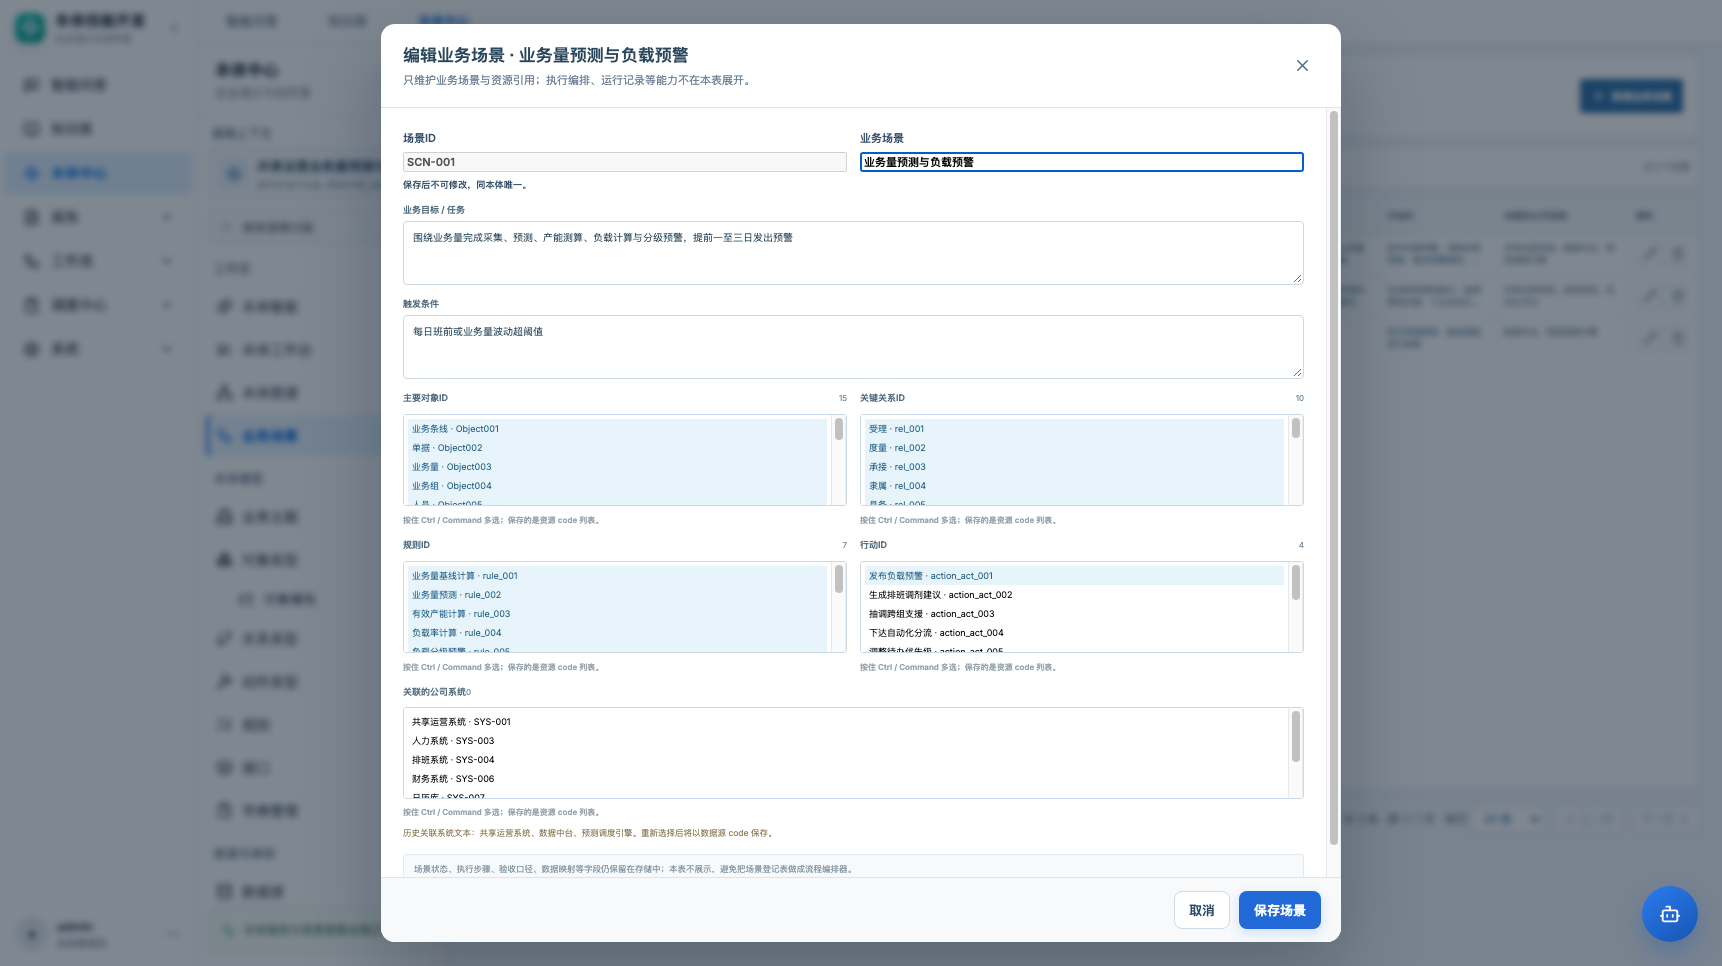
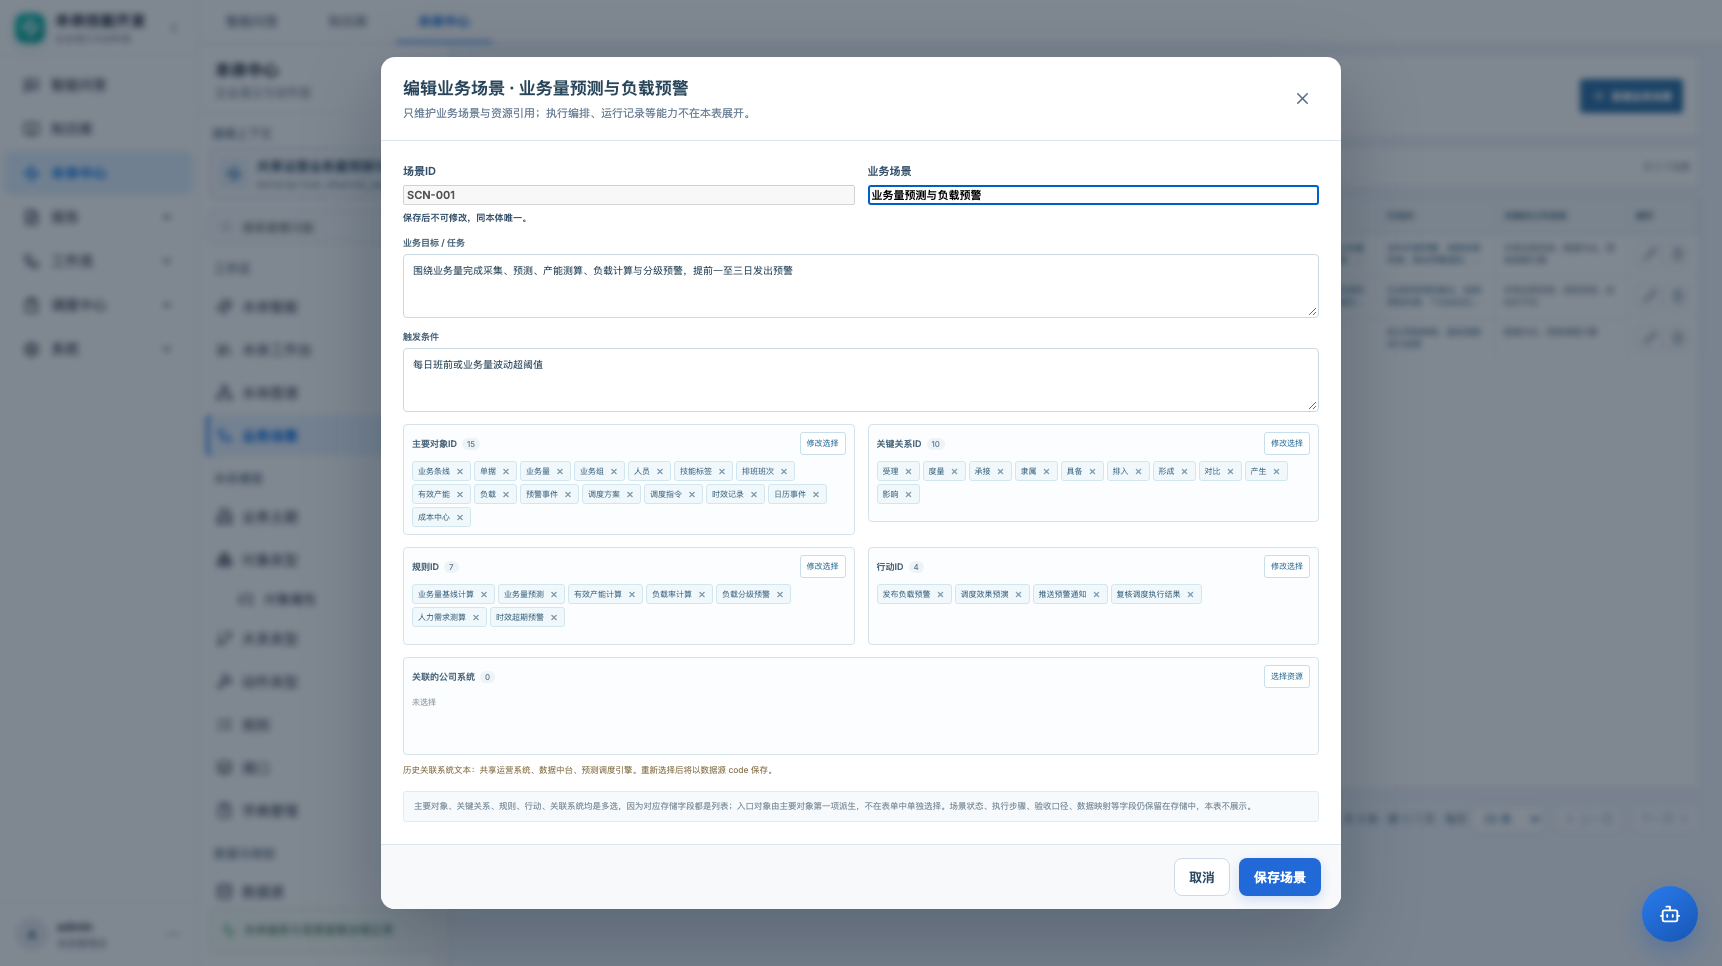
feat: use searchable resource pickers in scenario editor

diff --git a/frontend/src/pages/ScenarioStudio.jsx b/frontend/src/pages/ScenarioStudio.jsx
@@ -10,7 +10,6 @@ const emptyForm = () => ({
   related_objects: [], related_links: [], related_rules: [], related_actions: [], source_codes: [],
 });
 const statusLabel = { active: '已发布', draft: '设计中', experimental: '试验中', proposal: '建议中', deprecated: '已废弃' };
-const selectedValues = (event) => [...event.target.selectedOptions].map((option) => option.value);
 
 function ResourceCell({ codes, items, codeKey = 'name' }) {
   const values = (codes || []).map((code) => {
@@ -21,8 +20,35 @@ function ResourceCell({ codes, items, codeKey = 'name' }) {
   return <span className="scenario-table-ids" title={values.join('、')}>{values.join('、')}</span>;
 }
 
-function MultiSelect({ label, items, value, onChange, codeKey = 'name', labelKey = 'display_name' }) {
-  return <label className="scenario-simple-field"><span>{label}<em>{value.length}</em></span><select multiple value={value} onChange={(event) => onChange(selectedValues(event))} className="scenario-simple-multi">{items.map((item) => <option key={item.id || item[codeKey]} value={item[codeKey]}>{(item[labelKey] || item.name || item[codeKey])} · {item[codeKey]}</option>)}</select><small>按住 Ctrl / Command 多选；保存的是资源 code 列表。</small></label>;
+function ResourcePicker({ label, items, value, onChange, codeKey = 'name', labelKey = 'display_name', detail, multiple = true }) {
+  const [open, setOpen] = useState(false);
+  const [search, setSearch] = useState('');
+  const [draft, setDraft] = useState(value || []);
+  useEffect(() => { if (open) { setDraft(value || []); setSearch(''); } }, [open, value]);
+  const selected = value || [];
+  const selectedItems = selected.map((code) => items.find((item) => item[codeKey] === code)).filter(Boolean);
+  const needle = search.trim().toLowerCase();
+  const filtered = items.filter((item) => {
+    const text = `${item[labelKey] || ''} ${item[codeKey] || ''} ${detail ? detail(item) : ''}`.toLowerCase();
+    return !needle || text.includes(needle);
+  });
+  const toggle = (code) => setDraft((current) => multiple ? (current.includes(code) ? current.filter((item) => item !== code) : [...current, code]) : [code]);
+  const apply = () => { onChange(draft); setOpen(false); };
+  return <>
+    <div className="scenario-picker-field">
+      <div className="scenario-picker-head"><span>{label}<em>{selected.length}</em></span><button type="button" onClick={() => setOpen(true)}>{selected.length ? '修改选择' : '选择资源'}</button></div>
+      {selectedItems.length ? <div className="scenario-picker-chips">{selectedItems.map((item) => <span key={item.id || item[codeKey]} title={item[codeKey]}>{item[labelKey] || item[codeKey]}<button type="button" aria-label={`移除 ${item[labelKey] || item[codeKey]}`} onClick={() => onChange(selected.filter((code) => code !== item[codeKey]))}>×</button></span>)}</div> : <p className="scenario-picker-empty">未选择</p>}
+    </div>
+    {open && <Modal wide title={`选择${label}`} subtitle={multiple ? '可多选；确认后写入当前场景草稿。' : '单选；确认后写入当前场景草稿。'} onClose={() => setOpen(false)} footer={<><span className="scenario-picker-foot-count">已选 {draft.length} 项</span><button type="button" className="btn secondary" onClick={() => setDraft([])}>清空</button><button type="button" className="btn secondary" onClick={() => setOpen(false)}>取消</button><button type="button" className="btn primary" onClick={apply}>应用选择</button></>}>
+      <div className="scenario-picker-modal-body">
+        <label className="scenario-picker-search"><Search size={15} /><input autoFocus value={search} onChange={(event) => setSearch(event.target.value)} placeholder={`搜索${label}`} /></label>
+        <div className="scenario-picker-options">{filtered.map((item) => {
+          const code = item[codeKey];
+          return <label key={item.id || code} className={draft.includes(code) ? 'selected' : ''}><input type={multiple ? 'checkbox' : 'radio'} checked={draft.includes(code)} onChange={() => toggle(code)} /><span><b>{item[labelKey] || code}</b><code>{code}</code>{detail && detail(item) && <small>{detail(item)}</small>}</span></label>;
+        })}{!filtered.length && <div className="scenario-picker-no-result">没有匹配的资源</div>}</div>
+      </div>
+    </Modal>}
+  </>;
 }
 
 export default function ScenarioStudio({ activeId, notify }) {
@@ -184,10 +210,10 @@ export default function ScenarioStudio({ activeId, notify }) {
         <div className="form-grid two"><label><span>场景ID</span><input required disabled={!editing.create} value={form.code} onChange={(event) => setForm({ ...form, code: event.target.value })} placeholder="SCN-001" /><small>保存后不可修改，同本体唯一。</small></label><label><span>业务场景</span><input required value={form.name} onChange={(event) => setForm({ ...form, name: event.target.value })} /></label></div>
         <label><span>业务目标 / 任务</span><textarea required value={form.business_goal} onChange={(event) => setForm({ ...form, business_goal: event.target.value })} placeholder="用一句话说明场景要完成的业务任务" /></label>
         <label><span>触发条件</span><textarea required value={form.trigger_condition} onChange={(event) => setForm({ ...form, trigger_condition: event.target.value })} placeholder="什么事件、时间或数据变化触发这个场景" /></label>
-        <div className="form-grid two"><MultiSelect label="主要对象ID" items={objects} value={form.related_objects} onChange={(value) => setForm({ ...form, related_objects: value })} /><MultiSelect label="关键关系ID" items={links} value={form.related_links} onChange={(value) => setForm({ ...form, related_links: value })} /></div>
-        <div className="form-grid two"><MultiSelect label="规则ID" items={rules} value={form.related_rules} onChange={(value) => setForm({ ...form, related_rules: value })} /><MultiSelect label="行动ID" items={actions} value={form.related_actions} onChange={(value) => setForm({ ...form, related_actions: value })} /></div>
-        <MultiSelect label="关联的公司系统" items={sources} value={form.source_codes} onChange={(value) => setForm({ ...form, source_codes: value })} codeKey="code" labelKey="name" />{!form.source_codes.length && editing?.item?.connected_systems && <p className="scenario-simple-legacy">历史关联系统文本：{editing.item.connected_systems}。重新选择后将以数据源 code 保存。</p>}
-        <p className="scenario-simple-note">场景状态、执行步骤、验收口径、数据映射等字段仍保留在存储中；本表不展示，避免把场景登记表做成流程编排器。</p>
+        <div className="form-grid two"><ResourcePicker label="主要对象ID" items={objects} value={form.related_objects} onChange={(value) => setForm({ ...form, related_objects: value })} /><ResourcePicker label="关键关系ID" items={links} value={form.related_links} onChange={(value) => setForm({ ...form, related_links: value })} detail={(item) => [item.source_display_name, item.target_display_name].filter(Boolean).join(" -> ")} /></div>
+        <div className="form-grid two"><ResourcePicker label="规则ID" items={rules} value={form.related_rules} onChange={(value) => setForm({ ...form, related_rules: value })} detail={(item) => item.description || ""} /><ResourcePicker label="行动ID" items={actions} value={form.related_actions} onChange={(value) => setForm({ ...form, related_actions: value })} detail={(item) => item.description || ""} /></div>
+        <ResourcePicker label="关联的公司系统" items={sources} value={form.source_codes} onChange={(value) => setForm({ ...form, source_codes: value })} codeKey="code" labelKey="name" detail={(item) => item.physical_object || item.category || ""} />{!form.source_codes.length && editing?.item?.connected_systems && <p className="scenario-simple-legacy">历史关联系统文本：{editing.item.connected_systems}。重新选择后将以数据源 code 保存。</p>}
+        <p className="scenario-simple-note">主要对象、关键关系、规则、行动、关联系统均是多选，因为对应存储字段都是列表；入口对象由主要对象第一项派生，不在表单中单独选择。场景状态、执行步骤、验收口径、数据映射等字段仍保留在存储中，本表不展示。</p>
       </form>
     </Modal>}
   </div>;

diff --git a/frontend/src/styles.css b/frontend/src/styles.css
@@ -4017,3 +4017,34 @@ html, body, #root {
 .scenario-simple-multi option:checked { color:#1f5e85; background:#e7f4fb; }
 
 .scenario-simple-legacy { margin:-3px 0 0; color:#8d7a54; font-size:8.5px; line-height:1.5; }
+
+/* 业务场景：资源选择弹窗 */
+.scenario-picker-field { min-width:0; min-height:98px; padding:7px 8px; background:#fbfdfe; border:1px solid #d5e2ea; border-radius:4px; }
+.scenario-picker-head { display:flex; align-items:center; justify-content:space-between; gap:6px; }
+.scenario-picker-head > span { display:inline-flex; align-items:center; gap:5px; color:#4e697d; font-size:9px; font-weight:600; }
+.scenario-picker-head > span em { padding:1px 5px; color:#6e8798; background:#edf3f7; border-radius:7px; font-size:8px; font-style:normal; font-weight:400; }
+.scenario-picker-head > button { min-height:23px; padding:0 6px; color:#2c6f98; background:#fff; border:1px solid #c7dfed; border-radius:3px; font-size:8px; cursor:pointer; }
+.scenario-picker-head > button:hover { background:#f2faff; }
+.scenario-picker-chips { display:flex; flex-wrap:wrap; gap:3px; max-height:76px; overflow:auto; margin-top:6px; }
+.scenario-picker-chips > span { display:inline-flex; align-items:center; gap:3px; max-width:100%; padding:2px 3px 2px 5px; color:#3f6781; background:#f0f8fc; border:1px solid #d2e6f0; border-radius:3px; font-size:8px; }
+.scenario-picker-chips > span > button { width:14px; height:14px; display:grid; place-items:center; padding:0; color:#84a0b1; background:transparent; border:0; font-size:12px; line-height:1; cursor:pointer; }
+.scenario-picker-chips > span > button:hover { color:#a34b53; }
+.scenario-picker-empty { margin:9px 0 0; color:#9ba8b1; font-size:8px; }
+.scenario-picker-modal-body { display:flex; flex-direction:column; gap:8px; min-height:300px; }
+.scenario-picker-search { height:34px; display:flex; align-items:center; gap:6px; padding:0 8px; color:#7890a0; background:#f8fbfd; border:1px solid #cfdde6; border-radius:4px; }
+.scenario-picker-search input { min-width:0; flex:1; border:0; outline:0; background:transparent; font-size:10px; }
+.scenario-picker-options { display:grid; grid-template-columns:repeat(2,minmax(0,1fr)); gap:4px; max-height:430px; overflow:auto; padding:1px; }
+.scenario-picker-options > label { min-width:0; display:flex; align-items:flex-start; gap:6px; padding:7px 8px; background:#fff; border:1px solid #e3ebf0; border-radius:4px; cursor:pointer; }
+.scenario-picker-options > label:hover { background:#f7fbfd; border-color:#cfe2ed; }
+.scenario-picker-options > label.selected { background:#eff8fd; border-color:#bddceb; box-shadow:inset 2px 0 #2f7eae; }
+.scenario-picker-options > label input { flex:none; margin-top:2px; }
+.scenario-picker-options > label span { min-width:0; }
+.scenario-picker-options b, .scenario-picker-options code, .scenario-picker-options small { display:block; overflow:hidden; text-overflow:ellipsis; white-space:nowrap; }
+.scenario-picker-options b { color:#3c5e76; font-size:9px; }
+.scenario-picker-options code { margin-top:2px; color:#8b9da9; font-size:7.5px; }
+.scenario-picker-options small { margin-top:3px; color:#8c9ba5; font-size:8px; }
+.scenario-picker-no-result { grid-column:1 / -1; padding:40px 10px; color:#95a3ad; font-size:9px; text-align:center; }
+.scenario-picker-foot-count { margin-right:auto; color:#7d91a0; font-size:9px; }
+@media (max-width:700px) {
+  .scenario-picker-options { grid-template-columns:1fr; }
+}

diff --git a/docs/prd/15-PRD-业务场景模块.md b/docs/prd/15-PRD-业务场景模块.md
@@ -87,11 +87,13 @@
 - 业务场景
 - 业务目标 / 任务
 - 触发条件
-- 主要对象（多选）
-- 关键关系（多选）
-- 规则（多选）
-- 行动（多选）
-- 关联的公司系统（多选）
+- 主要对象（多选弹窗）
+- 关键关系（多选弹窗）
+- 规则（多选弹窗）
+- 行动（多选弹窗）
+- 关联的公司系统（多选弹窗）
+
+资源不通过高高的原生多选下拉框维护。点击“选择资源/修改选择”打开选择弹窗，支持搜索、勾选、清空、取消和应用。
 
 ### 存储但不显示
 
@@ -126,7 +128,20 @@
 - 其他隐藏字段保留原值。
 - 删除需要二次确认。
 
-### 5.3 资源显示
+### 5.3 单选 / 多选判断
+
+按表结构，五类资源都是列表字段，因此统一为多选：
+
+| 字段 | 选择方式 | 原因 |
+|---|---|---|
+| 主要对象 | 多选 | `obs_main_objs` 存对象列表 |
+| 关键关系 | 多选 | `obs_key_rels` 存关系列表 |
+| 规则 | 多选 | `obs_biz_rls` 存规则列表 |
+| 行动 | 多选 | `obs_biz_acts` 存行动列表 |
+| 关联公司系统 | 多选 | `obs_related_sys` 存系统列表 |
+| 入口对象（隐藏） | 单选派生 | 入口只能是主要对象中的一个，保存时取第一项 |
+
+### 5.4 资源显示
 
 - 表格显示资源名称，悬浮显示完整列表。
 - 系统列优先显示已登记数据源名称；历史场景没有 `source_codes` 时回退显示 `connected_systems` 文本。
@@ -161,12 +176,16 @@
 | S08 | 状态、验收、执行步骤、映射等字段可保留，但不在主表展示 |
 | S09 | 删除有确认，删除后刷新列表 |
 | S10 | 1366 宽度出现表格横向滚动，不造成页面横向溢出 |
+| S11 | 五类资源均通过弹窗选择，支持搜索和多选，不使用高多选下拉框 |
+| S12 | 入口对象不单独做单选控件，由主要对象第一项派生 |
 
 ## 8. 截图
 
 ![业务场景表格式登记](../proto-shots/50-业务场景-表格式登记.png)
 
 ![业务场景编辑弹窗](../proto-shots/51-业务场景-编辑弹窗.png)
+
+![业务场景资源选择弹窗](../proto-shots/52-业务场景-资源选择弹窗.png)
 
 ## 9. 限制
 
